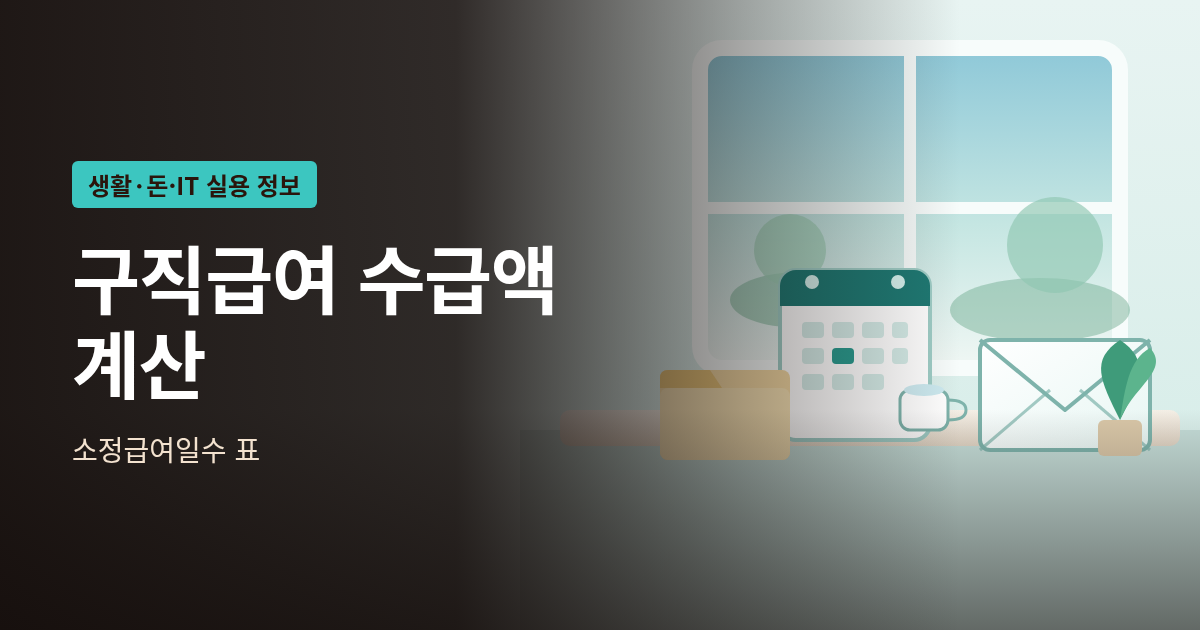
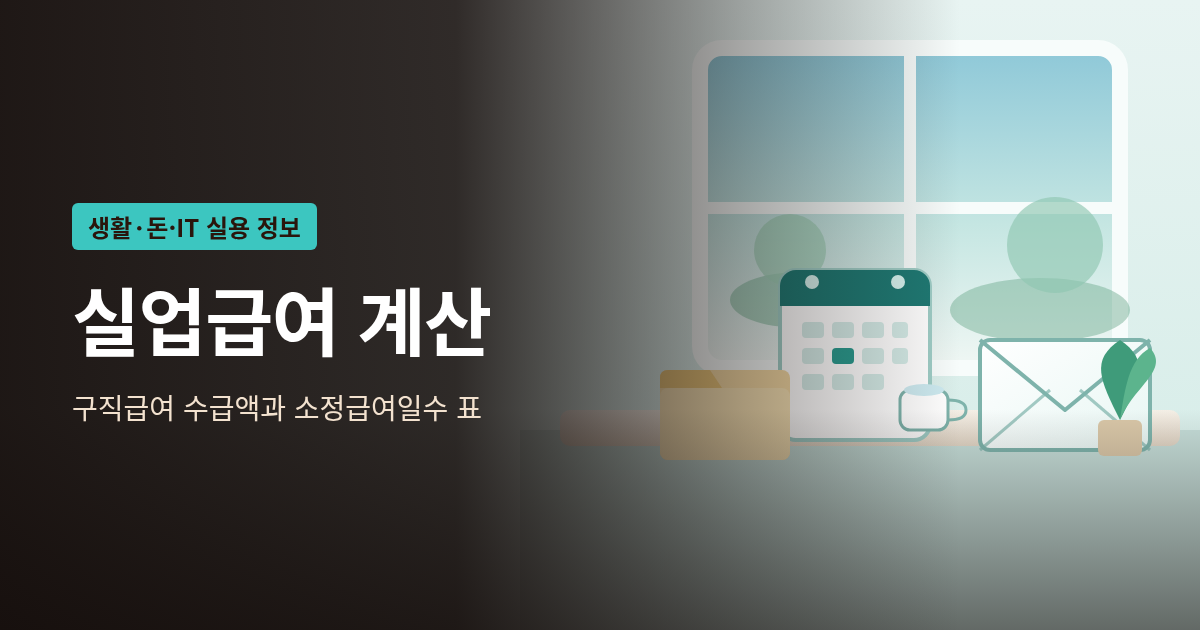
review: b3 jobseeker-benefit-amount-days-2026

Changed region(s): [[0.0617, 0.2413, 0.4625, 0.6635], [0.0617, 0.6937, 0.2158, 0.754]]

diff --git a/index.html b/index.html
@@ -47,10 +47,10 @@
 <header><div class="bar"><h1 class="logo">블로그 검토 · wikiliter.pp.ua</h1><nav class="tabs"><a href="#b3" data-tab="b3" class="">블로그<small>wikiliter.pp.ua (Blogger)</small></a></nav></div></header>
 <div class="wrap">
 <section class="tab" id="tab-b3">
-<div class="top"><span class="badge">블로그 · wikiliter.pp.ua (Blogger)</span><span class="ttl">구직급여 수급액 계산: 소정급여일수 표</span><button type="button" class="copy" data-tab="b3">HTML 복사</button></div>
-<div class="titlebox"><input id="title-b3" value="구직급여 수급액 계산: 소정급여일수 표" readonly aria-label="글 제목"><button type="button" class="copyt" data-tab="b3">제목 복사</button></div>
-<div class="titlebox"><textarea id="desc-b3" class="desc" readonly aria-label="검색 설명">구직급여 수급액은 2026년 1월 1일 이후 이직자 기준 하루 상한 68,100원, 8시간 하한 66,048원입니다. 이직 전 평균임금의 60%로 계산하되 상한·하한에 걸리면 그 금액이 되고, 받을 수 있는 일수는 나이와 가입기간에 따라 120일에서 270일입니다.</textarea><button type="button" class="copyd" data-tab="b3">검색설명 복사</button></div>
-<div class="thumb"><img src="https://kmt9934.github.io/blog-review/b3/thumbnail.png?v=2026-11-26T23:32" alt="구직급여 수급액 계산: 소정급여일수 표 썸네일"></div>
+<div class="top"><span class="badge">블로그 · wikiliter.pp.ua (Blogger)</span><span class="ttl">실업급여 계산: 구직급여 수급액과 소정급여일수 표</span><button type="button" class="copy" data-tab="b3">HTML 복사</button></div>
+<div class="titlebox"><input id="title-b3" value="실업급여 계산: 구직급여 수급액과 소정급여일수 표" readonly aria-label="글 제목"><button type="button" class="copyt" data-tab="b3">제목 복사</button></div>
+<div class="titlebox"><textarea id="desc-b3" class="desc" readonly aria-label="검색 설명">실업급여 수급액은 2026년 1월 1일 이후 이직자 기준 하루 상한 68,100원, 8시간 하한 66,048원입니다. 이직 전 평균임금의 60%로 계산하되 상한·하한에 걸리면 그 금액이 되고, 받을 수 있는 일수는 나이와 가입기간에 따라 120일에서 270일입니다.</textarea><button type="button" class="copyd" data-tab="b3">검색설명 복사</button></div>
+<div class="thumb"><img src="https://kmt9934.github.io/blog-review/b3/thumbnail.png?v=2026-11-26T23:44" alt="실업급여 계산: 구직급여 수급액과 소정급여일수 표 썸네일"></div>
 <div class="toolbar"><button type="button" data-cmd="bold"><b>B</b></button><button type="button" data-cmd="italic"><i>I</i></button><button type="button" data-cmd="formatBlock" data-val="h2">제목</button><button type="button" data-cmd="formatBlock" data-val="h3">소제목</button><button type="button" data-cmd="formatBlock" data-val="p">본문</button><button type="button" data-cmd="insertUnorderedList">• 목록</button></div>
 <div class="editor" id="ed-b3" contenteditable="true"></div>
 <div class="hint">이 탭의 글만 수정·복사됩니다. 「제목 복사」 → 블로그 제목 칸, 「검색설명 복사」 → Blogger 오른쪽 「검색 설명」 칸, 「HTML 복사」(제목 h1 제외) → 본문(HTML 모드)에 붙여넣기. 제목 칸을 비워 두지 마세요. 자동 발행은 하지 않습니다.</div>
@@ -59,7 +59,7 @@
 </div>
 <div class="toast" id="toast">복사됨 ✓</div>
 <script>
-const POSTS = {"b3": {"title": "구직급여 수급액 계산: 소정급여일수 표", "html": "<h1>구직급여 수급액 계산: 소정급여일수 표<\/h1>\n<div class=\"article-rich\" style=\"color:#16353d;\">\n<p style=\"color:#16353d;\">2026년 1월 1일 이후 이직한 사람의 구직급여는 하루 상한액이 6만 8,100원, 하루 소정근로 8시간 기준 하한액이 6만 6,048원입니다. 두 금액의 차이는 하루 2,052원이에요. 이직 전 평균임금의 60%로 계산해도, 월급이 최저임금 수준이거나 반대로 꽤 높아도 하루 수급액은 이 좁은 구간에 걸리는 경우가 많습니다.<\/p>\n<p style=\"color:#16353d;\">이 글의 숫자는 2026년 11월 26일 기준으로, <a style=\"color:#0f5f5a;\" href=\"https://www.moel.go.kr/common/downloadFile.do?bbs_id=23&amp;bbs_seq=20260200945&amp;file_ext=pdf&amp;file_seq=20260201644\">고용노동부 「고용보험 안내」(2026년 2월)<\/a>와 <a style=\"color:#0f5f5a;\" href=\"https://www.law.go.kr/법령/고용보험법\">「고용보험법」<\/a> 제40조·제45조·제46조·제48조·제50조, <a style=\"color:#0f5f5a;\" href=\"https://www.law.go.kr/법령/고용보험법 시행령\">같은 법 시행령<\/a> 제68조, <a style=\"color:#0f5f5a;\" href=\"https://www.minimumwage.go.kr/file/downloadSeq.do?bultnId=4657&amp;fileSeq=1\">2026년 적용 최저임금 고시<\/a>를 따릅니다. 상한액이 이직일 기준으로 갈리는 점은 <a style=\"color:#0f5f5a;\" href=\"https://1350.moel.go.kr/rtmview.do?id=1000324861\">고용노동부 1350 상담 답변<\/a>과 맞춰 두었어요. 아래에서는 하루 금액이 고정되는 경우, 소정급여일수가 달라지는 경우, 수급 요건이 갈리는 경우를 나눠 계산합니다.<\/p>\n\n<h2>하루 수급액이 상한과 하한 사이에 붙어 있는 이유<\/h2>\n<img src=\"https://kmt9934.github.io/blog-review/b3/fig1.png\" alt=\"하루 수급액이 상한과 하한 사이에 붙어 있는 이유 요약 카드\">\n<p style=\"color:#16353d;\">구직급여일액의 기본 식은 「고용보험법」 제46조에 있습니다. 마지막 이직 당시 평균임금으로 잡은 기초일액에 100분의 60을 곱한 금액이 하루 수급액이에요. 평균임금은 「근로기준법」 제2조에 따라, 이직일 이전 3개월 동안 받은 임금 총액을 그 기간의 총 일수로 나눈 값입니다.<\/p>\n<p style=\"color:#16353d;\">다만 이 60%가 그대로 나오지는 않습니다. 시행령 제68조는 2026년 1월 1일 이후 이직자를 기준으로, 기초일액이 11만 3,500원을 넘으면 11만 3,500원으로 보도록 정하고 있어요. 11만 3,500원의 60%가 바로 상한액 6만 8,100원입니다. 2025년 12월 31일 이전에 이직한 사람에게는 예전 상한인 하루 6만 6,000원(기초일액 11만 원)이 적용됩니다. 신청한 날이 2026년이어도, 갈리는 기준은 이직일입니다.<\/p>\n<p style=\"color:#16353d;\">하한은 이직 전 1일 소정근로시간에, 이직일 당시 최저시급을 곱한 금액(최저기초일액)의 80%입니다. 2026년 최저시급은 1만 320원이라, 하루 8시간이면 최저기초일액은 8만 2,560원이고, 그 80%인 6만 6,048원이 하한액이 됩니다. 소정근로시간이 더 짧으면 하한액도 내려갑니다. 고용노동부 1350 상담을 기준으로 하루 4시간이면 3만 3,024원, 하루 1시간이면 8,256원이에요.<\/p>\n<div style=\"background:#e7f4f2;border:1px solid #b8d4d0;border-radius:14px;padding:16px 18px;margin:20px 0;color:#16353d;\">\n  <h3 style=\"margin:0 0 8px;color:#134e4a;\">2026년 1월 1일 이후 이직, 하루 8시간 기준<\/h3>\n  <ul style=\"margin:0;padding-left:20px;line-height:1.7;color:#16353d;\">\n    <li style=\"color:#16353d;\">기본 계산: 기초일액(이직 전 3개월 평균임금) × 60%<\/li>\n    <li style=\"color:#16353d;\">상한액 6만 8,100원 (기초일액 상한 11만 3,500원의 60%)<\/li>\n    <li style=\"color:#16353d;\">하한액 6만 6,048원 (최저기초일액 8만 2,560원의 80%)<\/li>\n  <\/ul>\n<\/div>\n<p style=\"color:#16353d;\">예술인과 노무제공자의 하루 하한액은 안내 책자 기준으로 각각 1만 6,000원, 2만 6,600원입니다. 아래 계산 예시는 일반적인 근로자, 하루 소정근로 8시간을 전제로 합니다.<\/p>\n\n<h2>월급이 달라도 하루 금액이 같아지는 경우<\/h2>\n<img src=\"https://kmt9934.github.io/blog-review/b3/fig2.png\" alt=\"월급이 달라도 하루 금액이 같아지는 경우 요약 카드\">\n<p style=\"color:#16353d;\">하한과 상한의 간격이 하루 2,052원밖에 안 되기 때문에, 월급이 크게 달라도 하루 수급액은 같은 하한액이 되는 일이 흔합니다. 아래 세 경우는 모두 2026년 7월 1일부터 9월 30일까지(92일) 월급이 매월 같았고, 그 직후 이직한 사람으로 계산했어요. 실제 기초일액은 상여나 수당, 해당 3개월의 달력 일수에 따라 조금 달라집니다.<\/p>\n<p style=\"color:#16353d;\">첫 번째는 2026년 월 환산 최저임금인 215만 6,880원(주 40시간, 월 209시간)을 받은 경우입니다. 3개월 임금 총액 647만 640원을 92일로 나누면 기초일액은 7만 333원이에요. 이 값은 최저기초일액 8만 2,560원보다 낮아서, 「고용보험법」 제45조 제4항과 제46조 제1항 제2호에 따라 8만 2,560원의 80%인 <strong style=\"color:#16353d;\">6만 6,048원<\/strong>이 하루 수급액이 됩니다.<\/p>\n<p style=\"color:#16353d;\">두 번째는 월급 300만 원인 경우입니다. 3개월 임금 900만 원을 92일로 나누면 기초일액은 9만 7,826원이고, 그 60%는 약 5만 8,696원입니다. 이 금액은 하한액 6만 6,048원보다 낮아서, 같은 법 제46조 제2항에 따라 역시 <strong style=\"color:#16353d;\">6만 6,048원<\/strong>을 받습니다. 최저임금 월급과 300만 원은 83만 원 이상 차이가 나는데, 하루 구직급여는 같아져요.<\/p>\n<p style=\"color:#16353d;\">세 번째는 월급 350만 원인 경우입니다. 3개월 임금 1,050만 원을 92일로 나누면 기초일액은 11만 4,130원으로, 상한인 11만 3,500원을 넘습니다. 하루 수급액은 11만 3,500원의 60%인 <strong style=\"color:#16353d;\">6만 8,100원<\/strong>입니다. 60%가 하한과 상한 사이에 그대로 남는 구간은 좁습니다. 같은 92일 기준으로 보면, 기초일액이 11만 80원에서 11만 3,500원 사이, 월급으로 환산하면 대략 337만 6천 원에서 348만 1천 원 사이일 때입니다.<\/p>\n<figure>\n<img src=\"https://kmt9934.github.io/blog-review/b3/diag1.png\" alt=\"월급 세 가지 사례에서 하루 구직급여가 하한 또는 상한에 걸리는 흐름\">\n<figcaption>7~9월 92일 기준으로 본 하루 수급액. 중간 구간의 60%는 월급이 약 338만~348만 원일 때만 남습니다.<\/figcaption>\n<\/figure>\n<div style=\"overflow-x:auto;margin:20px 0;\">\n<table style=\"width:100%;border-collapse:collapse;font-size:15px;line-height:1.55;border:1px solid #d8e1ec;\">\n  <thead><tr>\n    <th style=\"border:1px solid #b8d4d0;padding:10px;background:#134e4a;color:#ffffff;\">구분 (7~9월 92일)<\/th>\n    <th style=\"border:1px solid #b8d4d0;padding:10px;background:#134e4a;color:#ffffff;\">기초일액<\/th>\n    <th style=\"border:1px solid #b8d4d0;padding:10px;background:#134e4a;color:#ffffff;\">하루 수급액<\/th>\n  <\/tr><\/thead>\n  <tbody>\n    <tr><th style=\"border:1px solid #b8d4d0;padding:10px;text-align:left;background:#e7f4f2;color:#16353d;\">월급 215만 6,880원<\/th><td style=\"border:1px solid #b8d4d0;padding:10px;color:#16353d;\">7만 333원 → 최저기초일액 적용<\/td><td style=\"border:1px solid #b8d4d0;padding:10px;color:#16353d;\">6만 6,048원 (80%)<\/td><\/tr>\n    <tr><th style=\"border:1px solid #b8d4d0;padding:10px;text-align:left;background:#e7f4f2;color:#16353d;\">월급 300만 원<\/th><td style=\"border:1px solid #b8d4d0;padding:10px;color:#16353d;\">9만 7,826원 × 60% = 5만 8,696원<\/td><td style=\"border:1px solid #b8d4d0;padding:10px;color:#16353d;\">6만 6,048원 (하한)<\/td><\/tr>\n    <tr><th style=\"border:1px solid #b8d4d0;padding:10px;text-align:left;background:#e7f4f2;color:#16353d;\">월급 350만 원<\/th><td style=\"border:1px solid #b8d4d0;padding:10px;color:#16353d;\">11만 4,130원 → 11만 3,500원<\/td><td style=\"border:1px solid #b8d4d0;padding:10px;color:#16353d;\">6만 8,100원 (상한)<\/td><\/tr>\n  <\/tbody>\n<\/table>\n<\/div>\n\n<h2>나이와 가입기간에 따라 소정급여일수가 갈리는 경우<\/h2>\n<img src=\"https://kmt9934.github.io/blog-review/b3/fig3.png\" alt=\"나이와 가입기간에 따라 소정급여일수가 갈리는 경우 요약 카드\">\n<p style=\"color:#16353d;\">하루 금액이 비슷해도 총액은 소정급여일수에서 갈립니다. 소정급여일수는 하나의 수급자격으로 구직급여를 받을 수 있는 날수이고, 「고용보험법」 별표 1이 이직일 현재 연령과 피보험기간으로 120일부터 270일까지 나눠 둡니다. 「장애인고용촉진 및 직업재활법」 제2조 제1호의 장애인은 50세 이상인 것으로 보아 같은 표를 적용해요.<\/p>\n<div style=\"overflow-x:auto;margin:20px 0;\">\n<table style=\"width:100%;border-collapse:collapse;font-size:15px;line-height:1.55;border:1px solid #d8e1ec;\">\n  <thead><tr>\n    <th style=\"border:1px solid #b8d4d0;padding:10px;background:#134e4a;color:#ffffff;\">피보험기간<\/th>\n    <th style=\"border:1px solid #b8d4d0;padding:10px;background:#134e4a;color:#ffffff;\">50세 미만<\/th>\n    <th style=\"border:1px solid #b8d4d0;padding:10px;background:#134e4a;color:#ffffff;\">50세 이상·장애인<\/th>\n  <\/tr><\/thead>\n  <tbody>\n    <tr><th style=\"border:1px solid #b8d4d0;padding:10px;text-align:left;background:#e7f4f2;color:#16353d;\">1년 미만<\/th><td style=\"border:1px solid #b8d4d0;padding:10px;color:#16353d;\">120일<\/td><td style=\"border:1px solid #b8d4d0;padding:10px;color:#16353d;\">120일<\/td><\/tr>\n    <tr><th style=\"border:1px solid #b8d4d0;padding:10px;text-align:left;background:#e7f4f2;color:#16353d;\">1년 이상 3년 미만<\/th><td style=\"border:1px solid #b8d4d0;padding:10px;color:#16353d;\">150일<\/td><td style=\"border:1px solid #b8d4d0;padding:10px;color:#16353d;\">180일<\/td><\/tr>\n    <tr><th style=\"border:1px solid #b8d4d0;padding:10px;text-align:left;background:#e7f4f2;color:#16353d;\">3년 이상 5년 미만<\/th><td style=\"border:1px solid #b8d4d0;padding:10px;color:#16353d;\">180일<\/td><td style=\"border:1px solid #b8d4d0;padding:10px;color:#16353d;\">210일<\/td><\/tr>\n    <tr><th style=\"border:1px solid #b8d4d0;padding:10px;text-align:left;background:#e7f4f2;color:#16353d;\">5년 이상 10년 미만<\/th><td style=\"border:1px solid #b8d4d0;padding:10px;color:#16353d;\">210일<\/td><td style=\"border:1px solid #b8d4d0;padding:10px;color:#16353d;\">240일<\/td><\/tr>\n    <tr><th style=\"border:1px solid #b8d4d0;padding:10px;text-align:left;background:#e7f4f2;color:#16353d;\">10년 이상<\/th><td style=\"border:1px solid #b8d4d0;padding:10px;color:#16353d;\">240일<\/td><td style=\"border:1px solid #b8d4d0;padding:10px;color:#16353d;\">270일<\/td><\/tr>\n  <\/tbody>\n<\/table>\n<\/div>\n<p style=\"color:#16353d;\">만 49세에 피보험기간 4년(3년 이상 5년 미만)이면 180일입니다. 같은 4년이어도 이직일 현재 만 50세이면 210일이 됩니다. 하루 하한액 6만 6,048원을 받는다면, 30일 차이만으로 총액은 180일 1,188만 8,640원과 210일 1,387만 80원으로 198만 1,440원이 갈려요. 상한액 6만 8,100원이면 180일은 1,225만 8,000원, 210일은 1,430만 1,000원입니다.<\/p>\n<p style=\"color:#16353d;\">피보험기간은 이직 당시 그 사업장에서 일한 기간이 기본이지만, 이전 사업장에서 피보험자격을 잃은 뒤 3년 안에 다시 취득했다면 그 기간을 합산합니다. 다만 이전 자격 상실로 이미 구직급여를 받았다면, 그 이전 기간은 빼야 해요. 나이 기준은 신청일이 아니라 이직일 현재입니다. 49세에 퇴사해 50세가 된 뒤 신청해도, 표의 연령은 이직일 나이를 따릅니다.<\/p>\n<div style=\"background:#fff8ed;border-left:4px solid #b54708;border-radius:8px;padding:14px 16px;margin:20px 0;color:#5c2b12;\">\n  <strong style=\"color:#5c2b12;\">피보험기간과 피보험단위기간은 다릅니다<\/strong>\n  <p style=\"margin:6px 0 0;line-height:1.7;color:#5c2b12;\">소정급여일수를 정하는 피보험기간은 고용된 기간이고, 수급 자격을 가리는 피보험단위기간은 보수가 지급된 기초가 된 날을 합한 일수입니다. 유급 주휴는 들어가고, 무급인 날은 빠집니다. 주 5일에 유급 주휴가 하루라면 일주일에 보통 6일로 세어, 180일을 채우려면 달력상의 6개월보다 긴 경우가 많습니다.<\/p>\n<\/div>\n\n<h2>스스로 그만둬도 받을 수 있는 경우는?<\/h2>\n<img src=\"https://kmt9934.github.io/blog-review/b3/fig4.png\" alt=\"스스로 그만둬도 받을 수 있는 경우는 요약 카드\">\n<p style=\"color:#16353d;\">「고용보험법」 제40조는 이직일 이전 18개월 동안 피보험단위기간이 합쳐서 180일 이상일 것, 일할 의사와 능력이 있는데도 취업하지 못한 상태일 것, 이직 사유가 수급 제한 사유에 해당하지 않을 것, 재취업 활동을 적극적으로 할 것을 함께 요구합니다.<\/p>\n<p style=\"color:#16353d;\">회사 사정으로 인한 권고사직, 계약 만료, 해고처럼 비자발적 이직이 기본입니다. 다만 고용노동부 안내 책자는 일정 기간의 임금 체불, 최저임금 미달, 사업장 도산, 휴업·폐업 등 정당한 이직 사유가 있으면 스스로 그만둔 경우에도 수급 자격을 인정한다고 적고 있습니다. 반대로 중대한 귀책 사유로 해고되거나, 전직·개인 사정으로 그만둔 경우에는 제58조에 따라 제한될 수 있어요. 이직 사유는 사업주가 제출하는 이직확인서와 본인이 말하는 내용이 함께 검토됩니다.<\/p>\n<p style=\"color:#16353d;\">질병·부상, 임신·출산·육아 휴직처럼 30일 이상 보수를 받지 못한 기간이 있으면, 기준기간 18개월에 그 일수를 더할 수 있고, 더해도 3년을 넘기지는 않습니다. 일용근로자는 수급자격 인정 신청일이 속한 달의 직전 달 초일부터 신청일까지 근로 일수 합이, 같은 기간 총 일수의 3분의 1 미만이어야 합니다. 예술인은 24개월간 9개월, 노무제공자는 24개월간 12개월이 단위기간 기준이에요.<\/p>\n<p style=\"color:#16353d;\">65세 이후에 새로 고용되거나 자영업을 시작한 사람은 실업급여 적용에서 빠집니다. 다만 65세 전부터 피보험자격을 유지한 채 계속 고용된 경우에는 실업급여가 그대로 적용됩니다. 1개월 소정근로 60시간 미만(1주 15시간 미만 포함) 근로자는 원칙적으로 적용이 제외되지만, 일용근로자와 3개월 이상 계속 일한 사람은 해당하지 않아요.<\/p>\n\n<h2>고용24 구직신청부터 실업인정까지 순서<\/h2>\n<img src=\"https://kmt9934.github.io/blog-review/b3/fig5.png\" alt=\"고용24 구직신청부터 실업인정까지 순서 요약 카드\">\n<p style=\"color:#16353d;\">신청은 <a style=\"color:#0f5f5a;\" href=\"https://www.work24.go.kr/cm/c/f/1100/selecSystInfo.do?systId=SI00000411\">고용24 실업급여 제도 안내<\/a>(페이지 표시 기준 2025년 7월 9일)에 나온 순서를 따르면 됩니다.<\/p>\n<figure>\n<img src=\"https://kmt9934.github.io/blog-review/b3/diag2.png\" alt=\"이직확인서 요청부터 구직등록, 수급자격 신청, 대기 7일, 실업인정 지급까지 단계\">\n<figcaption>실직 후 고용24에서 구직신청을 하고, 관할 고용센터에 수급자격 인정 신청서를 제출한 뒤 지정일에 실업인정을 받습니다.<\/figcaption>\n<\/figure>\n<ol style=\"color:#16353d;line-height:1.7;\">\n  <li style=\"color:#16353d;\">퇴직한 회사에 고용보험 피보험자격 상실 신고서와 이직확인서 제출을 요청합니다. 상실 신고서는 사업주가 근로복지공단에 내고, 이직확인서는 고용센터에 냅니다. 이직확인서는 요청받은 날부터 10일 안에 발급하도록 되어 있어요.<\/li>\n  <li style=\"color:#16353d;\"><a style=\"color:#0f5f5a;\" href=\"https://www.work24.go.kr\">고용24<\/a>에서 구직 등록(구직신청)을 합니다. 이력서를 올린 뒤 구직신청을 완료해야 다음 단계로 넘어갑니다.<\/li>\n  <li style=\"color:#16353d;\">실업급여 사전 교육을 온라인으로 먼저 듣습니다. 못 들은 사람은 고용센터에서 현장 교육을 받을 수 있어요.<\/li>\n  <li style=\"color:#16353d;\">신분증을 가지고 거주지 관할 고용센터에 가서 수급자격 인정 신청서를 제출합니다. 상실 신고와 이직확인서가 처리된 상용근로자로서 피보험단위기간 180일 이상, 비자발 이직(상실코드 22·23·31·32), 이직일 기준 만 65세 미만이면, 신청서를 인터넷으로 먼저 제출한 뒤 출석할 수 있습니다.<\/li>\n  <li style=\"color:#16353d;\">수급 자격이 인정되면, 고용센터가 1~4주 범위에서 지정한 날에 출석하거나 인터넷으로 실업인정 신청을 하고 재취업 활동을 증명합니다. 확인이 끝나면 그 기간의 구직급여가 지급됩니다.<\/li>\n<\/ol>\n<div style=\"background:#e7f4f2;border:1px solid #b8d4d0;border-radius:14px;padding:16px 18px;margin:20px 0;color:#16353d;\">\n  <h3 style=\"margin:0 0 8px;color:#134e4a;\">공식 사이트에서 구직신청·제도 안내 보기<\/h3>\n  <p style=\"margin:0 0 12px;line-height:1.7;color:#16353d;\">구직 등록은 고용24 로그인 후 진행합니다. 관할 고용센터는 고용24 마이페이지에서 찾을 수 있어요.<\/p>\n  <p style=\"margin:0 0 8px;color:#16353d;\"><a class=\"official-link-btn\" href=\"https://www.work24.go.kr\" style=\"display:inline-block;padding:10px 16px;border-radius:10px;background:#0f5f5a;color:#ffffff;font-weight:700;text-decoration:none;\">고용24에서 구직신청하기 →<\/a><\/p>\n  <p style=\"margin:0 0 8px;color:#16353d;\"><a class=\"official-link-btn\" href=\"https://www.work24.go.kr/cm/c/f/1100/selecSystInfo.do?systId=SI00000411\" style=\"display:inline-block;padding:10px 16px;border-radius:10px;background:#ffffff;border:2px solid #0f5f5a;color:#0f5f5a;font-weight:700;text-decoration:none;\">고용24 실업급여 신청 절차 안내 열기 →<\/a><\/p>\n  <p style=\"margin:8px 0 0;font-size:15px;line-height:1.6;color:#16353d;\">제도 문의: 고용노동부 고객상담센터 <strong style=\"color:#16353d;\">1350<\/strong> · 고용24 이용 문의: <strong style=\"color:#16353d;\">1577-7114<\/strong> (평일 9시~18시)<\/p>\n<\/div>\n\n<h2>수급기간 12개월을 넘기기 전에 줄어드는 금액<\/h2>\n<img src=\"https://kmt9934.github.io/blog-review/b3/fig6.png\" alt=\"수급기간 12개월을 넘기기 전에 줄어드는 금액 요약 카드\">\n<p style=\"color:#16353d;\">구직급여는 이직일 다음 날부터 센 12개월 안에, 소정급여일수를 한도로 받습니다. 이 12개월을 수급기간이라고 하고, 「고용보험법」 제48조가 정한 기한이에요. 소정급여일수 180일이어도, 수급기간이 끝나기 전에 그 일수를 다 쓰지 못하면 남은 날은 사라집니다.<\/p>\n<p style=\"color:#16353d;\">게다가 실업 신고일부터 7일은 대기기간이라 그 기간에는 구직급여가 나오지 않습니다. 대기기간이 끝난 다음 날부터 소정급여일수를 세기 시작하고, 이 7일은 소정급여일수에서 빠지지 않습니다. 지급이 시작되는 시점만 늦춰질 뿐이에요. 다만 최종 이직 당시 건설일용근로자였던 사람에게는 대기기간 없이 실업 신고일부터 지급합니다.<\/p>\n<p style=\"color:#16353d;\">2026년 1월 31일에 이직하면 수급기간은 2026년 2월 1일부터 2027년 1월 31일까지입니다. 같은 사람이 2026년 11월 26일에 처음으로 실업 신고를 하면, 대기 7일(11월 26일~12월 2일)이 끝난 뒤 12월 3일부터 받을 수 있고, 수급기간 마지막 날인 2027년 1월 31일까지는 60일입니다. 소정급여일수가 180일이어도 실제로는 60일분만 남을 수 있어요. 하루 하한액 6만 6,048원이면, 받지 못하는 120일에 해당하는 금액은 792만 5,760원입니다.<\/p>\n<p style=\"color:#16353d;\">임신·출산·육아, 질병·부상 등으로 취업할 수 없으면 수급기간을 연기할 수 있고, 한도는 4년입니다. 반대로 수급 중에 재취업하면 취업한 날부터 2개월 안에 그 사실을 신고해야 하고, 취업 전날까지의 구직급여만 받습니다. 남은 소정급여일수가 전체의 2분의 1 이상이고, 실업 신고일부터 14일이 지난 뒤 안정된 직업에 12개월 이상 계속 고용되면(이직일 당시 65세 이상은 6개월 이상으로 인정되는 경우가 있습니다) 조기재취업수당을 받을 수 있어요. 금액은 구직급여일액에 남은 일수를 곱한 값의 2분의 1입니다. 하루 6만 6,048원에 남은 90일이면 297만 2,160원입니다.<\/p>\n<p style=\"color:#16353d;\">2028년 1월 1일 이후 이직자부터는 구직급여 산정 기초가 이직 전 3개월 평균임금에서 이직 전 1년 보수로 바뀌도록 「고용보험법」이 개정되어 있습니다. 2028년 1월 1일 전에 이직한 사람에게는 지금의 3개월 평균임금 방식이 그대로 적용됩니다. 2026년 11월 27일 시행 개정은 난임치료휴가 급여 기간에 관한 내용이라, 구직급여 상한·하한과 소정급여일수 표는 바뀌지 않습니다.<\/p>\n\n<h3 style=\"color:#16353d;\">이 글의 숫자 출처와 참고한 공식 자료<\/h3>\n<ul style=\"color:#16353d;line-height:1.7;\">\n  <li style=\"color:#16353d;\"><a style=\"color:#0f5f5a;\" href=\"https://www.moel.go.kr/common/downloadFile.do?bbs_id=23&amp;bbs_seq=20260200945&amp;file_ext=pdf&amp;file_seq=20260201644\">고용노동부, 「고용보험 안내」 2026년 2월 기준<\/a><\/li>\n  <li style=\"color:#16353d;\"><a style=\"color:#0f5f5a;\" href=\"https://www.law.go.kr/법령/고용보험법\">국가법령정보센터, 「고용보험법」 제40조·제45조·제46조·제48조·제49조·제50조 및 별표 1<\/a><\/li>\n  <li style=\"color:#16353d;\"><a style=\"color:#0f5f5a;\" href=\"https://www.law.go.kr/법령/고용보험법 시행령\">국가법령정보센터, 「고용보험법 시행령」 제68조 (기초일액 상한 11만 3,500원)<\/a><\/li>\n  <li style=\"color:#16353d;\"><a style=\"color:#0f5f5a;\" href=\"https://www.minimumwage.go.kr/file/downloadSeq.do?bultnId=4657&amp;fileSeq=1\">최저임금위원회, 2026년 적용 최저임금 고시 (시간급 1만 320원, 월 환산 215만 6,880원)<\/a><\/li>\n  <li style=\"color:#16353d;\"><a style=\"color:#0f5f5a;\" href=\"https://www.work24.go.kr/cm/c/f/1100/selecSystInfo.do?systId=SI00000411\">고용24, 실업급여 신청 절차 안내<\/a><\/li>\n  <li style=\"color:#16353d;\"><a style=\"color:#0f5f5a;\" href=\"https://1350.moel.go.kr/rtmview.do?id=1000324861\">고용노동부 1350, 2026년 이직자 상한·하한 및 소정근로시간별 하한액 상담 답변<\/a><\/li>\n<\/ul>\n<\/div>\n"}};
+const POSTS = {"b3": {"title": "실업급여 계산: 구직급여 수급액과 소정급여일수 표", "html": "<h1>실업급여 계산: 구직급여 수급액과 소정급여일수 표<\/h1>\n<div class=\"article-rich\" style=\"color:#16353d;\">\n<p style=\"color:#16353d;\">2026년 1월 1일 이후 이직한 사람의 실업급여는 하루 상한액이 6만 8,100원, 하루 소정근로 8시간 기준 하한액이 6만 6,048원입니다. 두 금액의 차이는 하루 2,052원이에요. 이 하루 금액의 법정 명칭은 구직급여입니다. 「고용보험법」에서 실업급여는 구직급여와 취업촉진수당을 아우르고, 아래 상한·하한과 소정급여일수는 구직급여 기준입니다.<\/p>\n<p style=\"color:#16353d;\">이직 전 평균임금의 60%로 계산해도, 월급이 최저임금 수준이거나 반대로 꽤 높아도 하루 수급액은 이 좁은 구간에 걸리는 경우가 많습니다. 이 글의 숫자는 2026년 11월 26일 기준으로, <a style=\"color:#0f5f5a;\" href=\"https://www.moel.go.kr/common/downloadFile.do?bbs_id=23&amp;bbs_seq=20260200945&amp;file_ext=pdf&amp;file_seq=20260201644\">고용노동부 「고용보험 안내」(2026년 2월)<\/a>와 <a style=\"color:#0f5f5a;\" href=\"https://www.law.go.kr/법령/고용보험법\">「고용보험법」<\/a> 제40조·제45조·제46조·제48조·제50조, <a style=\"color:#0f5f5a;\" href=\"https://www.law.go.kr/법령/고용보험법 시행령\">같은 법 시행령<\/a> 제68조, <a style=\"color:#0f5f5a;\" href=\"https://www.minimumwage.go.kr/file/downloadSeq.do?bultnId=4657&amp;fileSeq=1\">2026년 적용 최저임금 고시<\/a>를 따릅니다. 상한액이 이직일 기준으로 갈리는 점은 <a style=\"color:#0f5f5a;\" href=\"https://1350.moel.go.kr/rtmview.do?id=1000324861\">고용노동부 1350 상담 답변<\/a>과 맞춰 두었어요. 아래에서는 하루 금액이 고정되는 경우, 소정급여일수가 달라지는 경우, 수급 요건이 갈리는 경우를 나눠 계산합니다.<\/p>\n\n<h2>실업급여 하루 금액이 상한과 하한에 붙는 이유<\/h2>\n<img src=\"https://kmt9934.github.io/blog-review/b3/fig1.png\" alt=\"실업급여 하루 금액이 상한과 하한에 붙는 이유 요약 카드\">\n<p style=\"color:#16353d;\">구직급여일액의 기본 식은 「고용보험법」 제46조에 있습니다. 마지막 이직 당시 평균임금으로 잡은 기초일액에 100분의 60을 곱한 금액이 하루 수급액이에요. 평균임금은 「근로기준법」 제2조에 따라, 이직일 이전 3개월 동안 받은 임금 총액을 그 기간의 총 일수로 나눈 값입니다.<\/p>\n<p style=\"color:#16353d;\">다만 이 60%가 그대로 나오지는 않습니다. 시행령 제68조는 2026년 1월 1일 이후 이직자를 기준으로, 기초일액이 11만 3,500원을 넘으면 11만 3,500원으로 보도록 정하고 있어요. 11만 3,500원의 60%가 바로 상한액 6만 8,100원입니다. 2025년 12월 31일 이전에 이직한 사람에게는 예전 상한인 하루 6만 6,000원(기초일액 11만 원)이 적용됩니다. 신청한 날이 2026년이어도, 갈리는 기준은 이직일입니다.<\/p>\n<p style=\"color:#16353d;\">하한은 이직 전 1일 소정근로시간에, 이직일 당시 최저시급을 곱한 금액(최저기초일액)의 80%입니다. 2026년 최저시급은 1만 320원이라, 하루 8시간이면 최저기초일액은 8만 2,560원이고, 그 80%인 6만 6,048원이 하한액이 됩니다. 소정근로시간이 더 짧으면 하한액도 내려갑니다. 고용노동부 1350 상담을 기준으로 하루 4시간이면 3만 3,024원, 하루 1시간이면 8,256원이에요.<\/p>\n<div style=\"background:#e7f4f2;border:1px solid #b8d4d0;border-radius:14px;padding:16px 18px;margin:20px 0;color:#16353d;\">\n  <h3 style=\"margin:0 0 8px;color:#134e4a;\">2026년 1월 1일 이후 이직, 하루 8시간 기준<\/h3>\n  <ul style=\"margin:0;padding-left:20px;line-height:1.7;color:#16353d;\">\n    <li style=\"color:#16353d;\">기본 계산: 기초일액(이직 전 3개월 평균임금) × 60%<\/li>\n    <li style=\"color:#16353d;\">상한액 6만 8,100원 (기초일액 상한 11만 3,500원의 60%)<\/li>\n    <li style=\"color:#16353d;\">하한액 6만 6,048원 (최저기초일액 8만 2,560원의 80%)<\/li>\n  <\/ul>\n<\/div>\n<p style=\"color:#16353d;\">예술인과 노무제공자의 하루 하한액은 안내 책자 기준으로 각각 1만 6,000원, 2만 6,600원입니다. 아래 계산 예시는 일반적인 근로자, 하루 소정근로 8시간을 전제로 합니다.<\/p>\n\n<h2>월급이 달라도 하루 금액이 같아지는 경우<\/h2>\n<img src=\"https://kmt9934.github.io/blog-review/b3/fig2.png\" alt=\"월급이 달라도 하루 금액이 같아지는 경우 요약 카드\">\n<p style=\"color:#16353d;\">하한과 상한의 간격이 하루 2,052원밖에 안 되기 때문에, 월급이 크게 달라도 하루 수급액은 같은 하한액이 되는 일이 흔합니다. 아래 세 경우는 모두 2026년 7월 1일부터 9월 30일까지(92일) 월급이 매월 같았고, 그 직후 이직한 사람으로 계산했어요. 실제 기초일액은 상여나 수당, 해당 3개월의 달력 일수에 따라 조금 달라집니다.<\/p>\n<p style=\"color:#16353d;\">첫 번째는 2026년 월 환산 최저임금인 215만 6,880원(주 40시간, 월 209시간)을 받은 경우입니다. 3개월 임금 총액 647만 640원을 92일로 나누면 기초일액은 7만 333원이에요. 이 값은 최저기초일액 8만 2,560원보다 낮아서, 「고용보험법」 제45조 제4항과 제46조 제1항 제2호에 따라 8만 2,560원의 80%인 <strong style=\"color:#16353d;\">6만 6,048원<\/strong>이 하루 수급액이 됩니다.<\/p>\n<p style=\"color:#16353d;\">두 번째는 월급 300만 원인 경우입니다. 3개월 임금 900만 원을 92일로 나누면 기초일액은 9만 7,826원이고, 그 60%는 약 5만 8,696원입니다. 이 금액은 하한액 6만 6,048원보다 낮아서, 같은 법 제46조 제2항에 따라 역시 <strong style=\"color:#16353d;\">6만 6,048원<\/strong>을 받습니다. 최저임금 월급과 300만 원은 83만 원 이상 차이가 나는데, 하루 실업급여는 같아져요.<\/p>\n<p style=\"color:#16353d;\">세 번째는 월급 350만 원인 경우입니다. 3개월 임금 1,050만 원을 92일로 나누면 기초일액은 11만 4,130원으로, 상한인 11만 3,500원을 넘습니다. 하루 수급액은 11만 3,500원의 60%인 <strong style=\"color:#16353d;\">6만 8,100원<\/strong>입니다. 60%가 하한과 상한 사이에 그대로 남는 구간은 좁습니다. 같은 92일 기준으로 보면, 기초일액이 11만 80원에서 11만 3,500원 사이, 월급으로 환산하면 대략 337만 6천 원에서 348만 1천 원 사이일 때입니다.<\/p>\n<figure>\n<img src=\"https://kmt9934.github.io/blog-review/b3/diag1.png\" alt=\"월급 세 가지 사례에서 하루 실업급여가 하한 또는 상한에 걸리는 흐름\">\n<figcaption>7~9월 92일 기준으로 본 하루 수급액. 중간 구간의 60%는 월급이 약 338만~348만 원일 때만 남습니다.<\/figcaption>\n<\/figure>\n<div style=\"overflow-x:auto;margin:20px 0;\">\n<table style=\"width:100%;border-collapse:collapse;font-size:15px;line-height:1.55;border:1px solid #d8e1ec;\">\n  <thead><tr>\n    <th style=\"border:1px solid #b8d4d0;padding:10px;background:#134e4a;color:#ffffff;\">구분 (7~9월 92일)<\/th>\n    <th style=\"border:1px solid #b8d4d0;padding:10px;background:#134e4a;color:#ffffff;\">기초일액<\/th>\n    <th style=\"border:1px solid #b8d4d0;padding:10px;background:#134e4a;color:#ffffff;\">하루 수급액<\/th>\n  <\/tr><\/thead>\n  <tbody>\n    <tr><th style=\"border:1px solid #b8d4d0;padding:10px;text-align:left;background:#e7f4f2;color:#16353d;\">월급 215만 6,880원<\/th><td style=\"border:1px solid #b8d4d0;padding:10px;color:#16353d;\">7만 333원 → 최저기초일액 적용<\/td><td style=\"border:1px solid #b8d4d0;padding:10px;color:#16353d;\">6만 6,048원 (80%)<\/td><\/tr>\n    <tr><th style=\"border:1px solid #b8d4d0;padding:10px;text-align:left;background:#e7f4f2;color:#16353d;\">월급 300만 원<\/th><td style=\"border:1px solid #b8d4d0;padding:10px;color:#16353d;\">9만 7,826원 × 60% = 5만 8,696원<\/td><td style=\"border:1px solid #b8d4d0;padding:10px;color:#16353d;\">6만 6,048원 (하한)<\/td><\/tr>\n    <tr><th style=\"border:1px solid #b8d4d0;padding:10px;text-align:left;background:#e7f4f2;color:#16353d;\">월급 350만 원<\/th><td style=\"border:1px solid #b8d4d0;padding:10px;color:#16353d;\">11만 4,130원 → 11만 3,500원<\/td><td style=\"border:1px solid #b8d4d0;padding:10px;color:#16353d;\">6만 8,100원 (상한)<\/td><\/tr>\n  <\/tbody>\n<\/table>\n<\/div>\n\n<h2>나이와 가입기간에 따라 소정급여일수가 갈리는 경우<\/h2>\n<img src=\"https://kmt9934.github.io/blog-review/b3/fig3.png\" alt=\"나이와 가입기간에 따라 소정급여일수가 갈리는 경우 요약 카드\">\n<p style=\"color:#16353d;\">하루 금액이 비슷해도 총액은 소정급여일수에서 갈립니다. 소정급여일수는 하나의 수급자격으로 구직급여를 받을 수 있는 날수이고, 「고용보험법」 별표 1이 이직일 현재 연령과 피보험기간으로 120일부터 270일까지 나눠 둡니다. 「장애인고용촉진 및 직업재활법」 제2조 제1호의 장애인은 50세 이상인 것으로 보아 같은 표를 적용해요.<\/p>\n<div style=\"overflow-x:auto;margin:20px 0;\">\n<table style=\"width:100%;border-collapse:collapse;font-size:15px;line-height:1.55;border:1px solid #d8e1ec;\">\n  <thead><tr>\n    <th style=\"border:1px solid #b8d4d0;padding:10px;background:#134e4a;color:#ffffff;\">피보험기간<\/th>\n    <th style=\"border:1px solid #b8d4d0;padding:10px;background:#134e4a;color:#ffffff;\">50세 미만<\/th>\n    <th style=\"border:1px solid #b8d4d0;padding:10px;background:#134e4a;color:#ffffff;\">50세 이상·장애인<\/th>\n  <\/tr><\/thead>\n  <tbody>\n    <tr><th style=\"border:1px solid #b8d4d0;padding:10px;text-align:left;background:#e7f4f2;color:#16353d;\">1년 미만<\/th><td style=\"border:1px solid #b8d4d0;padding:10px;color:#16353d;\">120일<\/td><td style=\"border:1px solid #b8d4d0;padding:10px;color:#16353d;\">120일<\/td><\/tr>\n    <tr><th style=\"border:1px solid #b8d4d0;padding:10px;text-align:left;background:#e7f4f2;color:#16353d;\">1년 이상 3년 미만<\/th><td style=\"border:1px solid #b8d4d0;padding:10px;color:#16353d;\">150일<\/td><td style=\"border:1px solid #b8d4d0;padding:10px;color:#16353d;\">180일<\/td><\/tr>\n    <tr><th style=\"border:1px solid #b8d4d0;padding:10px;text-align:left;background:#e7f4f2;color:#16353d;\">3년 이상 5년 미만<\/th><td style=\"border:1px solid #b8d4d0;padding:10px;color:#16353d;\">180일<\/td><td style=\"border:1px solid #b8d4d0;padding:10px;color:#16353d;\">210일<\/td><\/tr>\n    <tr><th style=\"border:1px solid #b8d4d0;padding:10px;text-align:left;background:#e7f4f2;color:#16353d;\">5년 이상 10년 미만<\/th><td style=\"border:1px solid #b8d4d0;padding:10px;color:#16353d;\">210일<\/td><td style=\"border:1px solid #b8d4d0;padding:10px;color:#16353d;\">240일<\/td><\/tr>\n    <tr><th style=\"border:1px solid #b8d4d0;padding:10px;text-align:left;background:#e7f4f2;color:#16353d;\">10년 이상<\/th><td style=\"border:1px solid #b8d4d0;padding:10px;color:#16353d;\">240일<\/td><td style=\"border:1px solid #b8d4d0;padding:10px;color:#16353d;\">270일<\/td><\/tr>\n  <\/tbody>\n<\/table>\n<\/div>\n<p style=\"color:#16353d;\">만 49세에 피보험기간 4년(3년 이상 5년 미만)이면 180일입니다. 같은 4년이어도 이직일 현재 만 50세이면 210일이 됩니다. 하루 하한액 6만 6,048원을 받는다면, 30일 차이만으로 총액은 180일 1,188만 8,640원과 210일 1,387만 80원으로 198만 1,440원이 갈려요. 상한액 6만 8,100원이면 180일은 1,225만 8,000원, 210일은 1,430만 1,000원입니다.<\/p>\n<p style=\"color:#16353d;\">피보험기간은 이직 당시 그 사업장에서 일한 기간이 기본이지만, 이전 사업장에서 피보험자격을 잃은 뒤 3년 안에 다시 취득했다면 그 기간을 합산합니다. 다만 이전 자격 상실로 이미 구직급여를 받았다면, 그 이전 기간은 빼야 해요. 나이 기준은 신청일이 아니라 이직일 현재입니다. 49세에 퇴사해 50세가 된 뒤 신청해도, 표의 연령은 이직일 나이를 따릅니다.<\/p>\n<div style=\"background:#fff8ed;border-left:4px solid #b54708;border-radius:8px;padding:14px 16px;margin:20px 0;color:#5c2b12;\">\n  <strong style=\"color:#5c2b12;\">피보험기간과 피보험단위기간은 다릅니다<\/strong>\n  <p style=\"margin:6px 0 0;line-height:1.7;color:#5c2b12;\">소정급여일수를 정하는 피보험기간은 고용된 기간이고, 수급 자격을 가리는 피보험단위기간은 보수가 지급된 기초가 된 날을 합한 일수입니다. 유급 주휴는 들어가고, 무급인 날은 빠집니다. 주 5일에 유급 주휴가 하루라면 일주일에 보통 6일로 세어, 180일을 채우려면 달력상의 6개월보다 긴 경우가 많습니다.<\/p>\n<\/div>\n\n<h2>스스로 그만둬도 받을 수 있는 경우는?<\/h2>\n<img src=\"https://kmt9934.github.io/blog-review/b3/fig4.png\" alt=\"스스로 그만둬도 받을 수 있는 경우는 요약 카드\">\n<p style=\"color:#16353d;\">「고용보험법」 제40조는 이직일 이전 18개월 동안 피보험단위기간이 합쳐서 180일 이상일 것, 일할 의사와 능력이 있는데도 취업하지 못한 상태일 것, 이직 사유가 수급 제한 사유에 해당하지 않을 것, 재취업 활동을 적극적으로 할 것을 함께 요구합니다.<\/p>\n<p style=\"color:#16353d;\">회사 사정으로 인한 권고사직, 계약 만료, 해고처럼 비자발적 이직이 기본입니다. 다만 고용노동부 안내 책자는 일정 기간의 임금 체불, 최저임금 미달, 사업장 도산, 휴업·폐업 등 정당한 이직 사유가 있으면 스스로 그만둔 경우에도 수급 자격을 인정한다고 적고 있습니다. 반대로 중대한 귀책 사유로 해고되거나, 전직·개인 사정으로 그만둔 경우에는 제58조에 따라 제한될 수 있어요. 이직 사유는 사업주가 제출하는 이직확인서와 본인이 말하는 내용이 함께 검토됩니다.<\/p>\n<p style=\"color:#16353d;\">질병·부상, 임신·출산·육아 휴직처럼 30일 이상 보수를 받지 못한 기간이 있으면, 기준기간 18개월에 그 일수를 더할 수 있고, 더해도 3년을 넘기지는 않습니다. 일용근로자는 수급자격 인정 신청일이 속한 달의 직전 달 초일부터 신청일까지 근로 일수 합이, 같은 기간 총 일수의 3분의 1 미만이어야 합니다. 예술인은 24개월간 9개월, 노무제공자는 24개월간 12개월이 단위기간 기준이에요.<\/p>\n<p style=\"color:#16353d;\">65세 이후에 새로 고용되거나 자영업을 시작한 사람은 실업급여 적용에서 빠집니다. 다만 65세 전부터 피보험자격을 유지한 채 계속 고용된 경우에는 실업급여가 그대로 적용됩니다. 1개월 소정근로 60시간 미만(1주 15시간 미만 포함) 근로자는 원칙적으로 적용이 제외되지만, 일용근로자와 3개월 이상 계속 일한 사람은 해당하지 않아요.<\/p>\n\n<h2>고용24 구직신청부터 실업인정까지 순서<\/h2>\n<img src=\"https://kmt9934.github.io/blog-review/b3/fig5.png\" alt=\"고용24 구직신청부터 실업인정까지 순서 요약 카드\">\n<p style=\"color:#16353d;\">신청은 <a style=\"color:#0f5f5a;\" href=\"https://www.work24.go.kr/cm/c/f/1100/selecSystInfo.do?systId=SI00000411\">고용24 실업급여 제도 안내<\/a>(페이지 표시 기준 2025년 7월 9일)에 나온 순서를 따르면 됩니다.<\/p>\n<figure>\n<img src=\"https://kmt9934.github.io/blog-review/b3/diag2.png\" alt=\"이직확인서 요청부터 구직등록, 수급자격 신청, 대기 7일, 실업인정 지급까지 단계\">\n<figcaption>실직 후 고용24에서 구직신청을 하고, 관할 고용센터에 수급자격 인정 신청서를 제출한 뒤 지정일에 실업인정을 받습니다.<\/figcaption>\n<\/figure>\n<ol style=\"color:#16353d;line-height:1.7;\">\n  <li style=\"color:#16353d;\">퇴직한 회사에 고용보험 피보험자격 상실 신고서와 이직확인서 제출을 요청합니다. 상실 신고서는 사업주가 근로복지공단에 내고, 이직확인서는 고용센터에 냅니다. 이직확인서는 요청받은 날부터 10일 안에 발급하도록 되어 있어요.<\/li>\n  <li style=\"color:#16353d;\"><a style=\"color:#0f5f5a;\" href=\"https://www.work24.go.kr\">고용24<\/a>에서 구직 등록(구직신청)을 합니다. 이력서를 올린 뒤 구직신청을 완료해야 다음 단계로 넘어갑니다.<\/li>\n  <li style=\"color:#16353d;\">실업급여 사전 교육을 온라인으로 먼저 듣습니다. 못 들은 사람은 고용센터에서 현장 교육을 받을 수 있어요.<\/li>\n  <li style=\"color:#16353d;\">신분증을 가지고 거주지 관할 고용센터에 가서 수급자격 인정 신청서를 제출합니다. 상실 신고와 이직확인서가 처리된 상용근로자로서 피보험단위기간 180일 이상, 비자발 이직(상실코드 22·23·31·32), 이직일 기준 만 65세 미만이면, 신청서를 인터넷으로 먼저 제출한 뒤 출석할 수 있습니다.<\/li>\n  <li style=\"color:#16353d;\">수급 자격이 인정되면, 고용센터가 1~4주 범위에서 지정한 날에 출석하거나 인터넷으로 실업인정 신청을 하고 재취업 활동을 증명합니다. 확인이 끝나면 그 기간의 실업급여가 지급됩니다.<\/li>\n<\/ol>\n<div style=\"background:#e7f4f2;border:1px solid #b8d4d0;border-radius:14px;padding:16px 18px;margin:20px 0;color:#16353d;\">\n  <h3 style=\"margin:0 0 8px;color:#134e4a;\">공식 사이트에서 구직신청·제도 안내 보기<\/h3>\n  <p style=\"margin:0 0 12px;line-height:1.7;color:#16353d;\">구직 등록은 고용24 로그인 후 진행합니다. 관할 고용센터는 고용24 마이페이지에서 찾을 수 있어요.<\/p>\n  <p style=\"margin:0 0 8px;color:#16353d;\"><a class=\"official-link-btn\" href=\"https://www.work24.go.kr\" style=\"display:inline-block;padding:10px 16px;border-radius:10px;background:#0f5f5a;color:#ffffff;font-weight:700;text-decoration:none;\">고용24에서 구직신청하기 →<\/a><\/p>\n  <p style=\"margin:0 0 8px;color:#16353d;\"><a class=\"official-link-btn\" href=\"https://www.work24.go.kr/cm/c/f/1100/selecSystInfo.do?systId=SI00000411\" style=\"display:inline-block;padding:10px 16px;border-radius:10px;background:#ffffff;border:2px solid #0f5f5a;color:#0f5f5a;font-weight:700;text-decoration:none;\">고용24 실업급여 신청 절차 안내 열기 →<\/a><\/p>\n  <p style=\"margin:8px 0 0;font-size:15px;line-height:1.6;color:#16353d;\">제도 문의: 고용노동부 고객상담센터 <strong style=\"color:#16353d;\">1350<\/strong> · 고용24 이용 문의: <strong style=\"color:#16353d;\">1577-7114<\/strong> (평일 9시~18시)<\/p>\n<\/div>\n\n<h2>수급기간 12개월을 넘기기 전에 줄어드는 금액<\/h2>\n<img src=\"https://kmt9934.github.io/blog-review/b3/fig6.png\" alt=\"수급기간 12개월을 넘기기 전에 줄어드는 금액 요약 카드\">\n<p style=\"color:#16353d;\">실업급여는 이직일 다음 날부터 센 12개월 안에, 소정급여일수를 한도로 받습니다. 이 12개월을 수급기간이라고 하고, 「고용보험법」 제48조가 정한 기한이에요. 소정급여일수 180일이어도, 수급기간이 끝나기 전에 그 일수를 다 쓰지 못하면 남은 날은 사라집니다.<\/p>\n<p style=\"color:#16353d;\">게다가 실업 신고일부터 7일은 대기기간이라 그 기간에는 실업급여가 나오지 않습니다. 대기기간이 끝난 다음 날부터 소정급여일수를 세기 시작하고, 이 7일은 소정급여일수에서 빠지지 않습니다. 지급이 시작되는 시점만 늦춰질 뿐이에요. 다만 최종 이직 당시 건설일용근로자였던 사람에게는 대기기간 없이 실업 신고일부터 지급합니다.<\/p>\n<p style=\"color:#16353d;\">2026년 1월 31일에 이직하면 수급기간은 2026년 2월 1일부터 2027년 1월 31일까지입니다. 같은 사람이 2026년 11월 26일에 처음으로 실업 신고를 하면, 대기 7일(11월 26일~12월 2일)이 끝난 뒤 12월 3일부터 받을 수 있고, 수급기간 마지막 날인 2027년 1월 31일까지는 60일입니다. 소정급여일수가 180일이어도 실제로는 60일분만 남을 수 있어요. 하루 하한액 6만 6,048원이면, 받지 못하는 120일에 해당하는 금액은 792만 5,760원입니다.<\/p>\n<p style=\"color:#16353d;\">임신·출산·육아, 질병·부상 등으로 취업할 수 없으면 수급기간을 연기할 수 있고, 한도는 4년입니다. 반대로 수급 중에 재취업하면 취업한 날부터 2개월 안에 그 사실을 신고해야 하고, 취업 전날까지의 실업급여만 받습니다. 남은 소정급여일수가 전체의 2분의 1 이상이고, 실업 신고일부터 14일이 지난 뒤 안정된 직업에 12개월 이상 계속 고용되면(이직일 당시 65세 이상은 6개월 이상으로 인정되는 경우가 있습니다) 조기재취업수당을 받을 수 있어요. 금액은 구직급여일액에 남은 일수를 곱한 값의 2분의 1입니다. 하루 6만 6,048원에 남은 90일이면 297만 2,160원입니다.<\/p>\n<p style=\"color:#16353d;\">2028년 1월 1일 이후 이직자부터는 구직급여 산정 기초가 이직 전 3개월 평균임금에서 이직 전 1년 보수로 바뀌도록 「고용보험법」이 개정되어 있습니다. 2028년 1월 1일 전에 이직한 사람에게는 지금의 3개월 평균임금 방식이 그대로 적용됩니다. 2026년 11월 27일 시행 개정은 난임치료휴가 급여 기간에 관한 내용이라, 상한·하한과 소정급여일수 표는 바뀌지 않습니다.<\/p>\n\n<h3 style=\"color:#16353d;\">이 글의 숫자 출처와 참고한 공식 자료<\/h3>\n<ul style=\"color:#16353d;line-height:1.7;\">\n  <li style=\"color:#16353d;\"><a style=\"color:#0f5f5a;\" href=\"https://www.moel.go.kr/common/downloadFile.do?bbs_id=23&amp;bbs_seq=20260200945&amp;file_ext=pdf&amp;file_seq=20260201644\">고용노동부, 「고용보험 안내」 2026년 2월 기준<\/a><\/li>\n  <li style=\"color:#16353d;\"><a style=\"color:#0f5f5a;\" href=\"https://www.law.go.kr/법령/고용보험법\">국가법령정보센터, 「고용보험법」 제40조·제45조·제46조·제48조·제49조·제50조 및 별표 1<\/a><\/li>\n  <li style=\"color:#16353d;\"><a style=\"color:#0f5f5a;\" href=\"https://www.law.go.kr/법령/고용보험법 시행령\">국가법령정보센터, 「고용보험법 시행령」 제68조 (기초일액 상한 11만 3,500원)<\/a><\/li>\n  <li style=\"color:#16353d;\"><a style=\"color:#0f5f5a;\" href=\"https://www.minimumwage.go.kr/file/downloadSeq.do?bultnId=4657&amp;fileSeq=1\">최저임금위원회, 2026년 적용 최저임금 고시 (시간급 1만 320원, 월 환산 215만 6,880원)<\/a><\/li>\n  <li style=\"color:#16353d;\"><a style=\"color:#0f5f5a;\" href=\"https://www.work24.go.kr/cm/c/f/1100/selecSystInfo.do?systId=SI00000411\">고용24, 실업급여 신청 절차 안내<\/a><\/li>\n  <li style=\"color:#16353d;\"><a style=\"color:#0f5f5a;\" href=\"https://1350.moel.go.kr/rtmview.do?id=1000324861\">고용노동부 1350, 2026년 이직자 상한·하한 및 소정근로시간별 하한액 상담 답변<\/a><\/li>\n<\/ul>\n<\/div>\n"}};
 const TABS = ["b3"];
 for (const id of TABS) {
   const p = POSTS[id];

diff --git a/b3/article.html b/b3/article.html
@@ -1,10 +1,10 @@
-<h1>구직급여 수급액 계산: 소정급여일수 표</h1>
+<h1>실업급여 계산: 구직급여 수급액과 소정급여일수 표</h1>
 <div class="article-rich" style="color:#16353d;">
-<p style="color:#16353d;">2026년 1월 1일 이후 이직한 사람의 구직급여는 하루 상한액이 6만 8,100원, 하루 소정근로 8시간 기준 하한액이 6만 6,048원입니다. 두 금액의 차이는 하루 2,052원이에요. 이직 전 평균임금의 60%로 계산해도, 월급이 최저임금 수준이거나 반대로 꽤 높아도 하루 수급액은 이 좁은 구간에 걸리는 경우가 많습니다.</p>
-<p style="color:#16353d;">이 글의 숫자는 2026년 11월 26일 기준으로, <a style="color:#0f5f5a;" href="https://www.moel.go.kr/common/downloadFile.do?bbs_id=23&amp;bbs_seq=20260200945&amp;file_ext=pdf&amp;file_seq=20260201644">고용노동부 「고용보험 안내」(2026년 2월)</a>와 <a style="color:#0f5f5a;" href="https://www.law.go.kr/법령/고용보험법">「고용보험법」</a> 제40조·제45조·제46조·제48조·제50조, <a style="color:#0f5f5a;" href="https://www.law.go.kr/법령/고용보험법 시행령">같은 법 시행령</a> 제68조, <a style="color:#0f5f5a;" href="https://www.minimumwage.go.kr/file/downloadSeq.do?bultnId=4657&amp;fileSeq=1">2026년 적용 최저임금 고시</a>를 따릅니다. 상한액이 이직일 기준으로 갈리는 점은 <a style="color:#0f5f5a;" href="https://1350.moel.go.kr/rtmview.do?id=1000324861">고용노동부 1350 상담 답변</a>과 맞춰 두었어요. 아래에서는 하루 금액이 고정되는 경우, 소정급여일수가 달라지는 경우, 수급 요건이 갈리는 경우를 나눠 계산합니다.</p>
+<p style="color:#16353d;">2026년 1월 1일 이후 이직한 사람의 실업급여는 하루 상한액이 6만 8,100원, 하루 소정근로 8시간 기준 하한액이 6만 6,048원입니다. 두 금액의 차이는 하루 2,052원이에요. 이 하루 금액의 법정 명칭은 구직급여입니다. 「고용보험법」에서 실업급여는 구직급여와 취업촉진수당을 아우르고, 아래 상한·하한과 소정급여일수는 구직급여 기준입니다.</p>
+<p style="color:#16353d;">이직 전 평균임금의 60%로 계산해도, 월급이 최저임금 수준이거나 반대로 꽤 높아도 하루 수급액은 이 좁은 구간에 걸리는 경우가 많습니다. 이 글의 숫자는 2026년 11월 26일 기준으로, <a style="color:#0f5f5a;" href="https://www.moel.go.kr/common/downloadFile.do?bbs_id=23&amp;bbs_seq=20260200945&amp;file_ext=pdf&amp;file_seq=20260201644">고용노동부 「고용보험 안내」(2026년 2월)</a>와 <a style="color:#0f5f5a;" href="https://www.law.go.kr/법령/고용보험법">「고용보험법」</a> 제40조·제45조·제46조·제48조·제50조, <a style="color:#0f5f5a;" href="https://www.law.go.kr/법령/고용보험법 시행령">같은 법 시행령</a> 제68조, <a style="color:#0f5f5a;" href="https://www.minimumwage.go.kr/file/downloadSeq.do?bultnId=4657&amp;fileSeq=1">2026년 적용 최저임금 고시</a>를 따릅니다. 상한액이 이직일 기준으로 갈리는 점은 <a style="color:#0f5f5a;" href="https://1350.moel.go.kr/rtmview.do?id=1000324861">고용노동부 1350 상담 답변</a>과 맞춰 두었어요. 아래에서는 하루 금액이 고정되는 경우, 소정급여일수가 달라지는 경우, 수급 요건이 갈리는 경우를 나눠 계산합니다.</p>
 
-<h2>하루 수급액이 상한과 하한 사이에 붙어 있는 이유</h2>
-<img src="https://kmt9934.github.io/blog-review/b3/fig1.png" alt="하루 수급액이 상한과 하한 사이에 붙어 있는 이유 요약 카드">
+<h2>실업급여 하루 금액이 상한과 하한에 붙는 이유</h2>
+<img src="https://kmt9934.github.io/blog-review/b3/fig1.png" alt="실업급여 하루 금액이 상한과 하한에 붙는 이유 요약 카드">
 <p style="color:#16353d;">구직급여일액의 기본 식은 「고용보험법」 제46조에 있습니다. 마지막 이직 당시 평균임금으로 잡은 기초일액에 100분의 60을 곱한 금액이 하루 수급액이에요. 평균임금은 「근로기준법」 제2조에 따라, 이직일 이전 3개월 동안 받은 임금 총액을 그 기간의 총 일수로 나눈 값입니다.</p>
 <p style="color:#16353d;">다만 이 60%가 그대로 나오지는 않습니다. 시행령 제68조는 2026년 1월 1일 이후 이직자를 기준으로, 기초일액이 11만 3,500원을 넘으면 11만 3,500원으로 보도록 정하고 있어요. 11만 3,500원의 60%가 바로 상한액 6만 8,100원입니다. 2025년 12월 31일 이전에 이직한 사람에게는 예전 상한인 하루 6만 6,000원(기초일액 11만 원)이 적용됩니다. 신청한 날이 2026년이어도, 갈리는 기준은 이직일입니다.</p>
 <p style="color:#16353d;">하한은 이직 전 1일 소정근로시간에, 이직일 당시 최저시급을 곱한 금액(최저기초일액)의 80%입니다. 2026년 최저시급은 1만 320원이라, 하루 8시간이면 최저기초일액은 8만 2,560원이고, 그 80%인 6만 6,048원이 하한액이 됩니다. 소정근로시간이 더 짧으면 하한액도 내려갑니다. 고용노동부 1350 상담을 기준으로 하루 4시간이면 3만 3,024원, 하루 1시간이면 8,256원이에요.</p>
@@ -22,10 +22,10 @@
 <img src="https://kmt9934.github.io/blog-review/b3/fig2.png" alt="월급이 달라도 하루 금액이 같아지는 경우 요약 카드">
 <p style="color:#16353d;">하한과 상한의 간격이 하루 2,052원밖에 안 되기 때문에, 월급이 크게 달라도 하루 수급액은 같은 하한액이 되는 일이 흔합니다. 아래 세 경우는 모두 2026년 7월 1일부터 9월 30일까지(92일) 월급이 매월 같았고, 그 직후 이직한 사람으로 계산했어요. 실제 기초일액은 상여나 수당, 해당 3개월의 달력 일수에 따라 조금 달라집니다.</p>
 <p style="color:#16353d;">첫 번째는 2026년 월 환산 최저임금인 215만 6,880원(주 40시간, 월 209시간)을 받은 경우입니다. 3개월 임금 총액 647만 640원을 92일로 나누면 기초일액은 7만 333원이에요. 이 값은 최저기초일액 8만 2,560원보다 낮아서, 「고용보험법」 제45조 제4항과 제46조 제1항 제2호에 따라 8만 2,560원의 80%인 <strong style="color:#16353d;">6만 6,048원</strong>이 하루 수급액이 됩니다.</p>
-<p style="color:#16353d;">두 번째는 월급 300만 원인 경우입니다. 3개월 임금 900만 원을 92일로 나누면 기초일액은 9만 7,826원이고, 그 60%는 약 5만 8,696원입니다. 이 금액은 하한액 6만 6,048원보다 낮아서, 같은 법 제46조 제2항에 따라 역시 <strong style="color:#16353d;">6만 6,048원</strong>을 받습니다. 최저임금 월급과 300만 원은 83만 원 이상 차이가 나는데, 하루 구직급여는 같아져요.</p>
+<p style="color:#16353d;">두 번째는 월급 300만 원인 경우입니다. 3개월 임금 900만 원을 92일로 나누면 기초일액은 9만 7,826원이고, 그 60%는 약 5만 8,696원입니다. 이 금액은 하한액 6만 6,048원보다 낮아서, 같은 법 제46조 제2항에 따라 역시 <strong style="color:#16353d;">6만 6,048원</strong>을 받습니다. 최저임금 월급과 300만 원은 83만 원 이상 차이가 나는데, 하루 실업급여는 같아져요.</p>
 <p style="color:#16353d;">세 번째는 월급 350만 원인 경우입니다. 3개월 임금 1,050만 원을 92일로 나누면 기초일액은 11만 4,130원으로, 상한인 11만 3,500원을 넘습니다. 하루 수급액은 11만 3,500원의 60%인 <strong style="color:#16353d;">6만 8,100원</strong>입니다. 60%가 하한과 상한 사이에 그대로 남는 구간은 좁습니다. 같은 92일 기준으로 보면, 기초일액이 11만 80원에서 11만 3,500원 사이, 월급으로 환산하면 대략 337만 6천 원에서 348만 1천 원 사이일 때입니다.</p>
 <figure>
-<img src="https://kmt9934.github.io/blog-review/b3/diag1.png" alt="월급 세 가지 사례에서 하루 구직급여가 하한 또는 상한에 걸리는 흐름">
+<img src="https://kmt9934.github.io/blog-review/b3/diag1.png" alt="월급 세 가지 사례에서 하루 실업급여가 하한 또는 상한에 걸리는 흐름">
 <figcaption>7~9월 92일 기준으로 본 하루 수급액. 중간 구간의 60%는 월급이 약 338만~348만 원일 때만 남습니다.</figcaption>
 </figure>
 <div style="overflow-x:auto;margin:20px 0;">
@@ -88,7 +88,7 @@
   <li style="color:#16353d;"><a style="color:#0f5f5a;" href="https://www.work24.go.kr">고용24</a>에서 구직 등록(구직신청)을 합니다. 이력서를 올린 뒤 구직신청을 완료해야 다음 단계로 넘어갑니다.</li>
   <li style="color:#16353d;">실업급여 사전 교육을 온라인으로 먼저 듣습니다. 못 들은 사람은 고용센터에서 현장 교육을 받을 수 있어요.</li>
   <li style="color:#16353d;">신분증을 가지고 거주지 관할 고용센터에 가서 수급자격 인정 신청서를 제출합니다. 상실 신고와 이직확인서가 처리된 상용근로자로서 피보험단위기간 180일 이상, 비자발 이직(상실코드 22·23·31·32), 이직일 기준 만 65세 미만이면, 신청서를 인터넷으로 먼저 제출한 뒤 출석할 수 있습니다.</li>
-  <li style="color:#16353d;">수급 자격이 인정되면, 고용센터가 1~4주 범위에서 지정한 날에 출석하거나 인터넷으로 실업인정 신청을 하고 재취업 활동을 증명합니다. 확인이 끝나면 그 기간의 구직급여가 지급됩니다.</li>
+  <li style="color:#16353d;">수급 자격이 인정되면, 고용센터가 1~4주 범위에서 지정한 날에 출석하거나 인터넷으로 실업인정 신청을 하고 재취업 활동을 증명합니다. 확인이 끝나면 그 기간의 실업급여가 지급됩니다.</li>
 </ol>
 <div style="background:#e7f4f2;border:1px solid #b8d4d0;border-radius:14px;padding:16px 18px;margin:20px 0;color:#16353d;">
   <h3 style="margin:0 0 8px;color:#134e4a;">공식 사이트에서 구직신청·제도 안내 보기</h3>
@@ -100,11 +100,11 @@
 
 <h2>수급기간 12개월을 넘기기 전에 줄어드는 금액</h2>
 <img src="https://kmt9934.github.io/blog-review/b3/fig6.png" alt="수급기간 12개월을 넘기기 전에 줄어드는 금액 요약 카드">
-<p style="color:#16353d;">구직급여는 이직일 다음 날부터 센 12개월 안에, 소정급여일수를 한도로 받습니다. 이 12개월을 수급기간이라고 하고, 「고용보험법」 제48조가 정한 기한이에요. 소정급여일수 180일이어도, 수급기간이 끝나기 전에 그 일수를 다 쓰지 못하면 남은 날은 사라집니다.</p>
-<p style="color:#16353d;">게다가 실업 신고일부터 7일은 대기기간이라 그 기간에는 구직급여가 나오지 않습니다. 대기기간이 끝난 다음 날부터 소정급여일수를 세기 시작하고, 이 7일은 소정급여일수에서 빠지지 않습니다. 지급이 시작되는 시점만 늦춰질 뿐이에요. 다만 최종 이직 당시 건설일용근로자였던 사람에게는 대기기간 없이 실업 신고일부터 지급합니다.</p>
+<p style="color:#16353d;">실업급여는 이직일 다음 날부터 센 12개월 안에, 소정급여일수를 한도로 받습니다. 이 12개월을 수급기간이라고 하고, 「고용보험법」 제48조가 정한 기한이에요. 소정급여일수 180일이어도, 수급기간이 끝나기 전에 그 일수를 다 쓰지 못하면 남은 날은 사라집니다.</p>
+<p style="color:#16353d;">게다가 실업 신고일부터 7일은 대기기간이라 그 기간에는 실업급여가 나오지 않습니다. 대기기간이 끝난 다음 날부터 소정급여일수를 세기 시작하고, 이 7일은 소정급여일수에서 빠지지 않습니다. 지급이 시작되는 시점만 늦춰질 뿐이에요. 다만 최종 이직 당시 건설일용근로자였던 사람에게는 대기기간 없이 실업 신고일부터 지급합니다.</p>
 <p style="color:#16353d;">2026년 1월 31일에 이직하면 수급기간은 2026년 2월 1일부터 2027년 1월 31일까지입니다. 같은 사람이 2026년 11월 26일에 처음으로 실업 신고를 하면, 대기 7일(11월 26일~12월 2일)이 끝난 뒤 12월 3일부터 받을 수 있고, 수급기간 마지막 날인 2027년 1월 31일까지는 60일입니다. 소정급여일수가 180일이어도 실제로는 60일분만 남을 수 있어요. 하루 하한액 6만 6,048원이면, 받지 못하는 120일에 해당하는 금액은 792만 5,760원입니다.</p>
-<p style="color:#16353d;">임신·출산·육아, 질병·부상 등으로 취업할 수 없으면 수급기간을 연기할 수 있고, 한도는 4년입니다. 반대로 수급 중에 재취업하면 취업한 날부터 2개월 안에 그 사실을 신고해야 하고, 취업 전날까지의 구직급여만 받습니다. 남은 소정급여일수가 전체의 2분의 1 이상이고, 실업 신고일부터 14일이 지난 뒤 안정된 직업에 12개월 이상 계속 고용되면(이직일 당시 65세 이상은 6개월 이상으로 인정되는 경우가 있습니다) 조기재취업수당을 받을 수 있어요. 금액은 구직급여일액에 남은 일수를 곱한 값의 2분의 1입니다. 하루 6만 6,048원에 남은 90일이면 297만 2,160원입니다.</p>
-<p style="color:#16353d;">2028년 1월 1일 이후 이직자부터는 구직급여 산정 기초가 이직 전 3개월 평균임금에서 이직 전 1년 보수로 바뀌도록 「고용보험법」이 개정되어 있습니다. 2028년 1월 1일 전에 이직한 사람에게는 지금의 3개월 평균임금 방식이 그대로 적용됩니다. 2026년 11월 27일 시행 개정은 난임치료휴가 급여 기간에 관한 내용이라, 구직급여 상한·하한과 소정급여일수 표는 바뀌지 않습니다.</p>
+<p style="color:#16353d;">임신·출산·육아, 질병·부상 등으로 취업할 수 없으면 수급기간을 연기할 수 있고, 한도는 4년입니다. 반대로 수급 중에 재취업하면 취업한 날부터 2개월 안에 그 사실을 신고해야 하고, 취업 전날까지의 실업급여만 받습니다. 남은 소정급여일수가 전체의 2분의 1 이상이고, 실업 신고일부터 14일이 지난 뒤 안정된 직업에 12개월 이상 계속 고용되면(이직일 당시 65세 이상은 6개월 이상으로 인정되는 경우가 있습니다) 조기재취업수당을 받을 수 있어요. 금액은 구직급여일액에 남은 일수를 곱한 값의 2분의 1입니다. 하루 6만 6,048원에 남은 90일이면 297만 2,160원입니다.</p>
+<p style="color:#16353d;">2028년 1월 1일 이후 이직자부터는 구직급여 산정 기초가 이직 전 3개월 평균임금에서 이직 전 1년 보수로 바뀌도록 「고용보험법」이 개정되어 있습니다. 2028년 1월 1일 전에 이직한 사람에게는 지금의 3개월 평균임금 방식이 그대로 적용됩니다. 2026년 11월 27일 시행 개정은 난임치료휴가 급여 기간에 관한 내용이라, 상한·하한과 소정급여일수 표는 바뀌지 않습니다.</p>
 
 <h3 style="color:#16353d;">이 글의 숫자 출처와 참고한 공식 자료</h3>
 <ul style="color:#16353d;line-height:1.7;">
